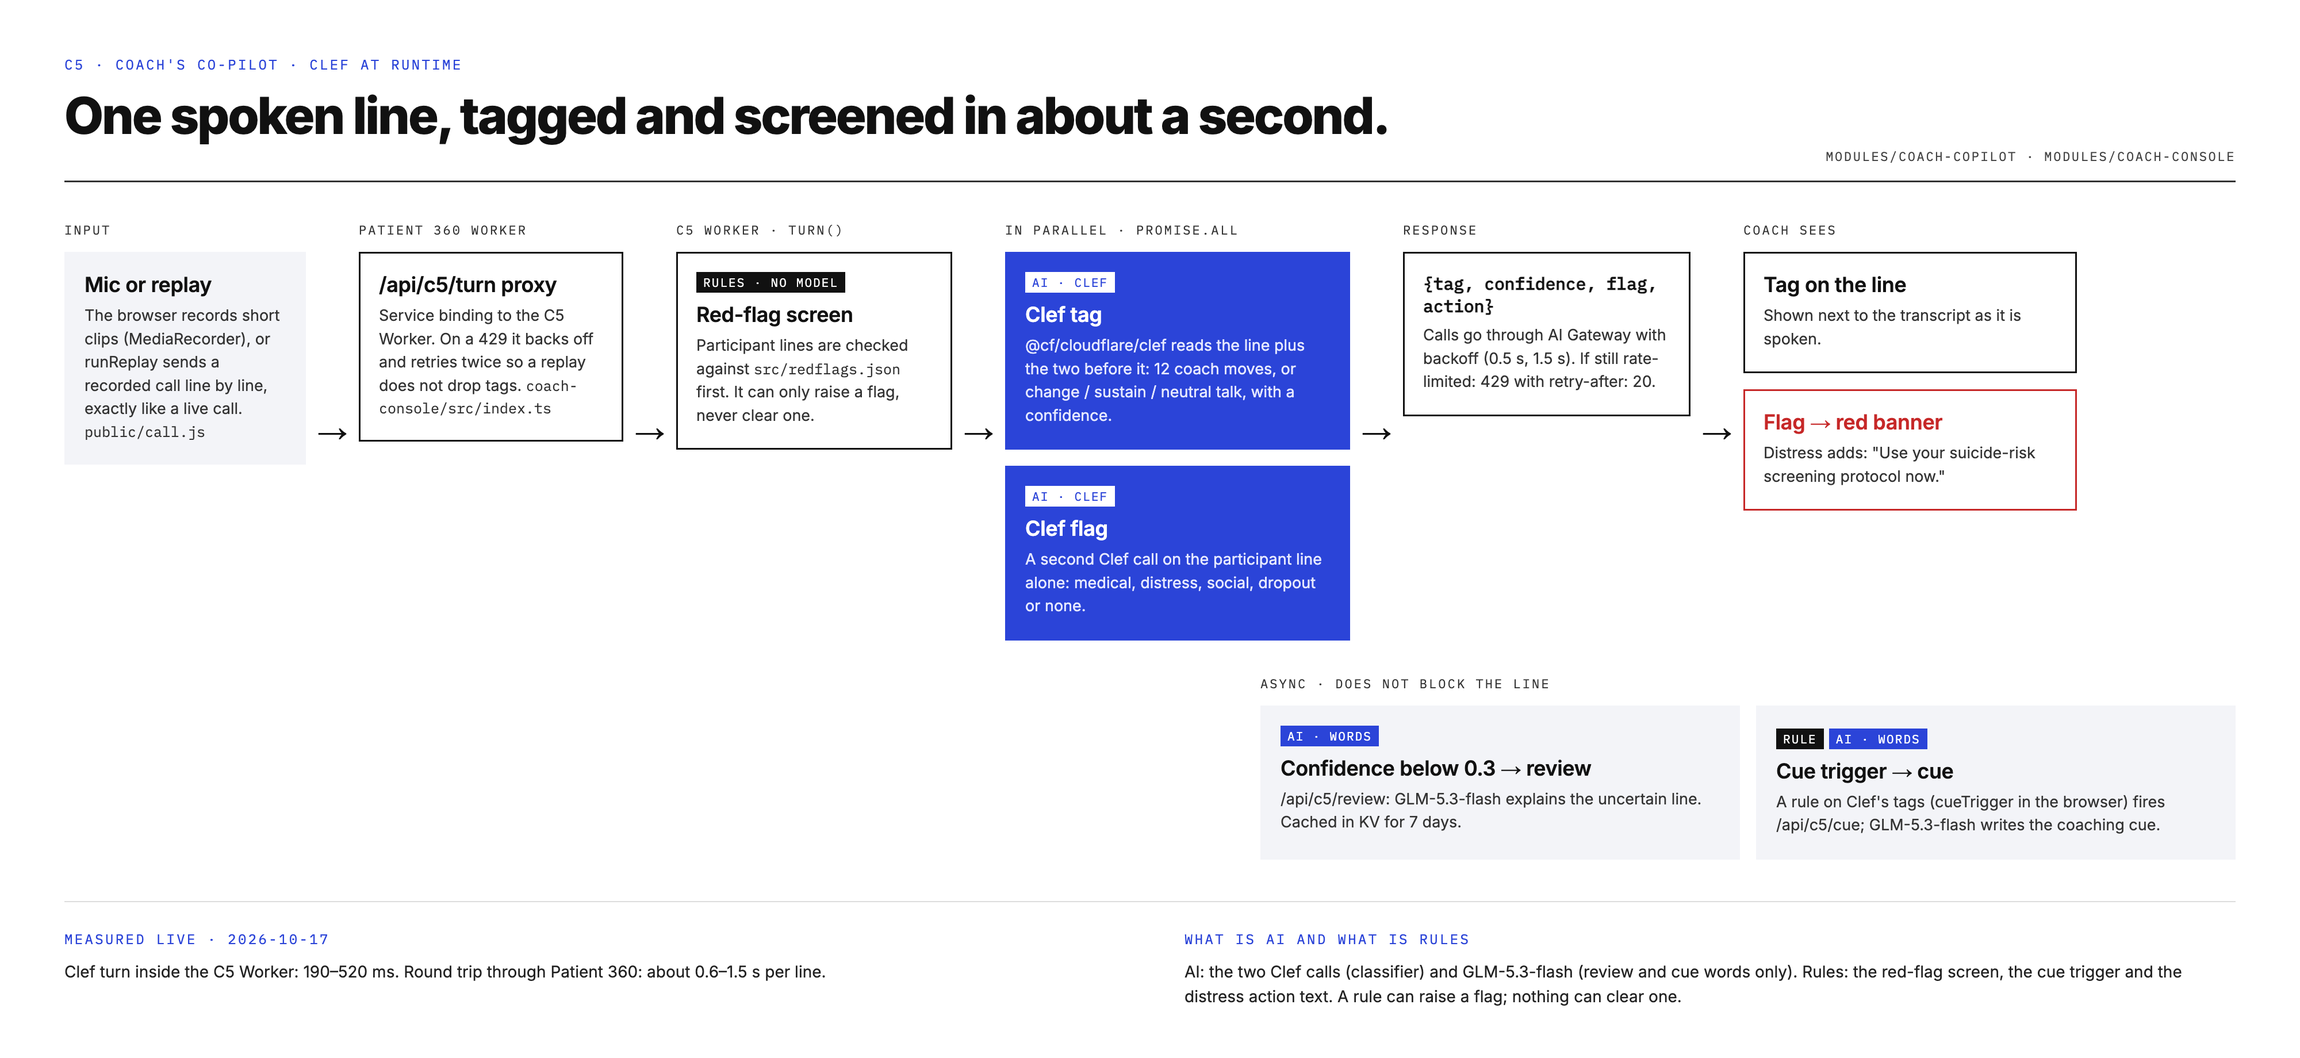
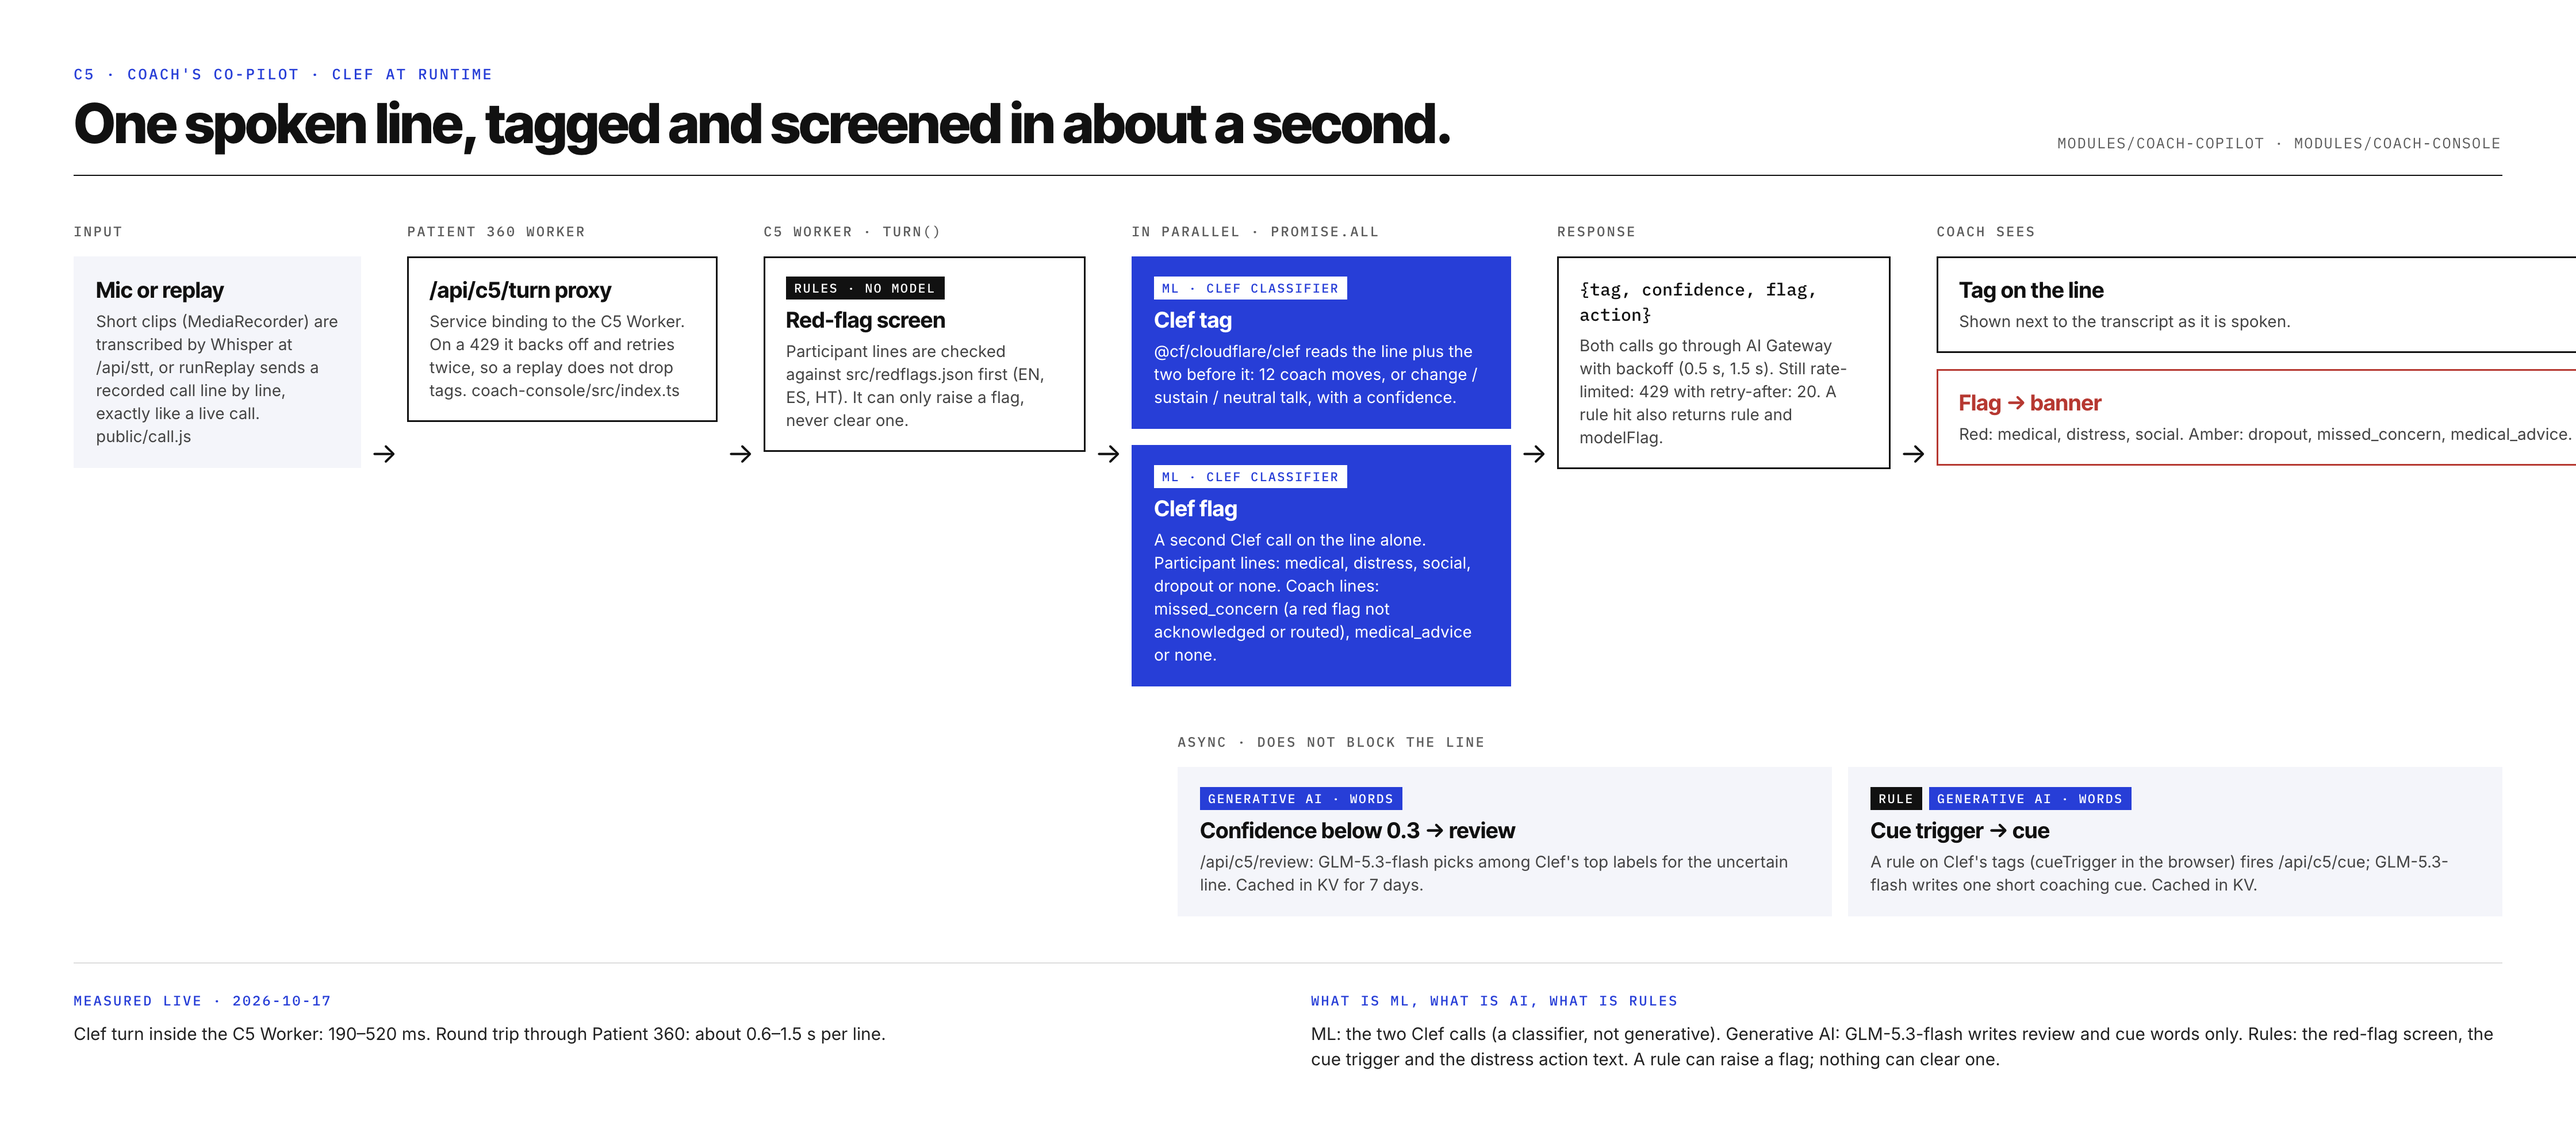
docs: presenter diagrams rebuilt in Paper, plus every-model AI/ML map

diff --git a/README.md b/README.md
@@ -46,7 +46,7 @@ Each module is its own Cloudflare Worker with a small JSON contract (`CONTRACT.m
 
 ## For presenters
 
-Three one-look diagrams for judges' questions. Every box is checked against the code; every number comes from a module README or `docs/claims.tsv`.
+Four one-look diagrams for judges' questions, made in Paper. Every box is checked against the code; every number comes from a module README or `docs/claims.tsv`.
 
 - **Clef at runtime:** what happens to one spoken line of a call, with live timings, and which steps are AI and which are rules.
 
@@ -57,6 +57,9 @@ Three one-look diagrams for judges' questions. Every box is checked against the 
 - **The forecasts:** what we forecast, how far ahead, and what the care team does on the Today list.
 
   ![The forecasts](docs/forecasts.png)
+- **Every model, AI and ML:** every model call in the system, where it runs, its input and output, the screen that shows it, whether it is validated or writes words only, and what happens when it fails.
+
+  ![Every model, AI and ML](docs/ai-ml-map.png)
 
 ## How each challenge works
 
